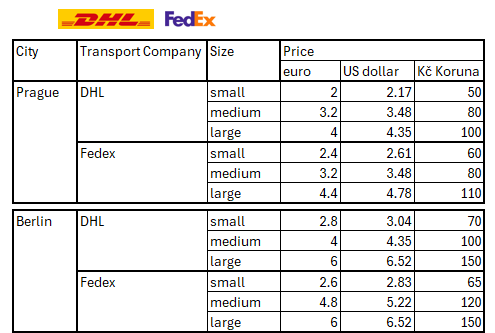
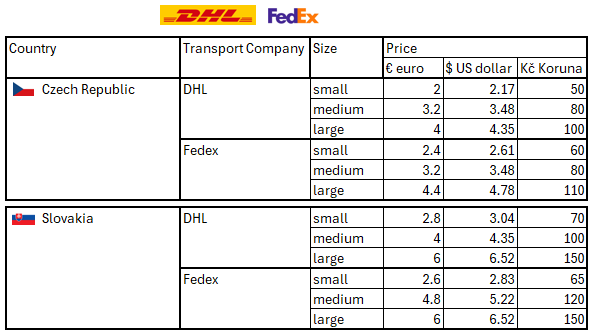
13-Mar-2025 - adjustments

Changed region(s): [[0.0, 0.0, 1.0, 1.0]]

diff --git a/Subpages/Function_3_creation of XML.py b/Subpages/Function_3_creation of XML.py
@@ -36,10 +36,16 @@ now = time.localtime()
 print(now)
 date_input = time.strftime("%Y-%m-%d", now)
 
+# Application Frontend:
+st.write("### Delivery details:")
+''
+
+st.write("Please provide details about your order...")
+''
 with st. expander("Buyer"):
     customer_input = st.text_input(
-        "Customer:",
-        help = "Write a customer name"
+        "Customer/Company name:",
+        help = "Write a customer name/company name"
         )
 
 with st. expander("Product"):
@@ -50,7 +56,7 @@ with st. expander("Product"):
         )
 
     category_selb = st.selectbox(
-        "Category" ,
+        "Category:" ,
         index = None,
         placeholder= "Select...",
         options=["PC","TV","Gaming","Mobile phones","Tablets","Major Appliances","Households"],
@@ -59,7 +65,7 @@ with st. expander("Product"):
 
 with st. expander("Price"):
     currency_selb = st.selectbox(
-        "Currency" ,
+        "Currency:" ,
         index = None,
         placeholder= "Select...",
         options=["euro","US dollar","Kč"],
@@ -67,7 +73,7 @@ with st. expander("Price"):
         )
     
     price = st.number_input(
-        "Price",
+        "Price:",
         min_value=0.00,
         step = 10.00,
         help = "You can either click on the +- icons or write the input using numbers. *The step is step +- 10.00 -> i case of diferent values in decimals wrrte it."
@@ -77,7 +83,7 @@ with st. expander("Price"):
 with st.expander("Extra purchase"):
 
     add_service_select = st.selectbox(
-        "Additional service" ,
+        "Additional service:" ,
         options=["No additional service","Insurance","Extended varanty"],
         help = "Select one of the options"
          )
@@ -91,15 +97,15 @@ with st.expander("Extra purchase"):
 with st.expander("Transportation"):
 
     city_selb = st.selectbox(
-        "Select city for delivery" ,
-        options=["Prague","Berlin"],
+        "Country:" ,
+        options=["Czech Republic","Slovakia"],
         index = None,
         placeholder="Select...",
         help = "Select one of the options - there is different price for service for each city"
          )
       
     transport_co_selb = st.selectbox(
-        "Transporting compeny" ,
+        "Transporting company:" ,
         options=["DHL","Fedex"],
         index = None,
         placeholder="Select...",
@@ -107,148 +113,153 @@ with st.expander("Transportation"):
          )
     
     size_selb = st.selectbox(
-        "Size of package" ,
+        "Size of package:" ,
         options=["small","medium","large"],
         index = None,
         placeholder="Select...",
         help = "Select one of the options - there is different price for each size"
         )
-    
+    ''
+    st.write("Pricing table:")
+    ''
     st.image("Pictures/Function_3/Price_list.png")
+
+''
+''
 
 price_str = str(price)
 
 # logika pro transport
 
 def calculation_transport(city_selb,size_selb,transport_co_selb, currency_selb):   
-    # Prague, DHL, small
-    if city_selb == 'Prague' and transport_co_selb == 'DHL' and size_selb == 'small' and currency_selb == 'euro':
+    # Czech Republic, DHL, small
+    if city_selb == 'Czech Republic' and transport_co_selb == 'DHL' and size_selb == 'small' and currency_selb == 'euro':
         return 2.00
     
-    if city_selb == 'Prague' and transport_co_selb == 'DHL' and size_selb == 'small' and currency_selb == 'US dollar':
+    if city_selb == 'Czech Republic' and transport_co_selb == 'DHL' and size_selb == 'small' and currency_selb == 'US dollar':
         return 2.17
     
-    if city_selb == 'Prague' and transport_co_selb == 'DHL' and size_selb == 'small' and currency_selb == 'Kč':
+    if city_selb == 'Czech Republic' and transport_co_selb == 'DHL' and size_selb == 'small' and currency_selb == 'Kč':
         return 50.00
 
-    # Prague, DHL, medium
-    if city_selb == 'Prague' and transport_co_selb == 'DHL' and size_selb == 'medium' and currency_selb == 'euro':
+    # Czech Republic, DHL, medium
+    if city_selb == 'Czech Republic' and transport_co_selb == 'DHL' and size_selb == 'medium' and currency_selb == 'euro':
         return 3.20
     
-    if city_selb == 'Prague' and transport_co_selb == 'DHL' and size_selb == 'medium' and currency_selb == 'US dollar':
+    if city_selb == 'Czech Republic' and transport_co_selb == 'DHL' and size_selb == 'medium' and currency_selb == 'US dollar':
         return 3.48
     
-    if city_selb == 'Prague' and transport_co_selb == 'DHL' and size_selb == 'medium' and currency_selb == 'Kč':
+    if city_selb == 'Czech Republic' and transport_co_selb == 'DHL' and size_selb == 'medium' and currency_selb == 'Kč':
         return 80.00
 
-    # Prague, DHL, large
-    if city_selb == 'Prague' and transport_co_selb == 'DHL' and size_selb == 'large' and currency_selb == 'euro':
+    # Czech Republic, DHL, large
+    if city_selb == 'Czech Republic' and transport_co_selb == 'DHL' and size_selb == 'large' and currency_selb == 'euro':
         return 4.00
     
-    if city_selb == 'Prague' and transport_co_selb == 'DHL' and size_selb == 'large' and currency_selb == 'US dollar':
+    if city_selb == 'Czech Republic' and transport_co_selb == 'DHL' and size_selb == 'large' and currency_selb == 'US dollar':
         return 4.35
     
-    if city_selb == 'Prague' and transport_co_selb == 'DHL' and size_selb == 'large' and currency_selb == 'Kč':
+    if city_selb == 'Czech Republic' and transport_co_selb == 'DHL' and size_selb == 'large' and currency_selb == 'Kč':
         return 100.00
     
-    # Prague, Fedex, small
-    if city_selb == 'Prague' and transport_co_selb == 'Fedex' and size_selb == 'small' and currency_selb == 'euro':
+    # Czech Republic, Fedex, small
+    if city_selb == 'Czech Republic' and transport_co_selb == 'Fedex' and size_selb == 'small' and currency_selb == 'euro':
         return 2.40
     
-    if city_selb == 'Prague' and transport_co_selb == 'Fedex' and size_selb == 'small' and currency_selb == 'US dollar':
+    if city_selb == 'Czech Republic' and transport_co_selb == 'Fedex' and size_selb == 'small' and currency_selb == 'US dollar':
         return 2.61
     
-    if city_selb == 'Prague' and transport_co_selb == 'Fedex' and size_selb == 'small' and currency_selb == 'Kč':
+    if city_selb == 'Czech Republic' and transport_co_selb == 'Fedex' and size_selb == 'small' and currency_selb == 'Kč':
         return 60.00
     
-    # Prague, Fedex, medium
-    if city_selb == 'Prague' and transport_co_selb == 'Fedex' and size_selb == 'medium' and currency_selb == 'euro':
+    # Czech Republic, Fedex, medium
+    if city_selb == 'Czech Republic' and transport_co_selb == 'Fedex' and size_selb == 'medium' and currency_selb == 'euro':
         return 3.20
     
-    if city_selb == 'Prague' and transport_co_selb == 'Fedex' and size_selb == 'medium' and currency_selb == 'US dollar':
+    if city_selb == 'Czech Republic' and transport_co_selb == 'Fedex' and size_selb == 'medium' and currency_selb == 'US dollar':
         return 3.48
     
-    if city_selb == 'Prague' and transport_co_selb == 'Fedex' and size_selb == 'medium' and currency_selb == 'Kč':
+    if city_selb == 'Czech Republic' and transport_co_selb == 'Fedex' and size_selb == 'medium' and currency_selb == 'Kč':
         return 80.00
     
-    # Prague, Fedex, large
-    if city_selb == 'Prague' and transport_co_selb == 'Fedex' and size_selb == 'large' and currency_selb == 'euro':
+    # Czech Republic, Fedex, large
+    if city_selb == 'Czech Republic' and transport_co_selb == 'Fedex' and size_selb == 'large' and currency_selb == 'euro':
         return 4.40
     
-    if city_selb == 'Prague' and transport_co_selb == 'Fedex' and size_selb == 'large' and currency_selb == 'US dollar':
+    if city_selb == 'Czech Republic' and transport_co_selb == 'Fedex' and size_selb == 'large' and currency_selb == 'US dollar':
         return 4.78
     
-    if city_selb == 'Prague' and transport_co_selb == 'Fedex' and size_selb == 'large' and currency_selb == 'Kč':
+    if city_selb == 'Czech Republic' and transport_co_selb == 'Fedex' and size_selb == 'large' and currency_selb == 'Kč':
         return 110.00
     
-    # Berlin, DHL, small
-    if city_selb == 'Berlin' and transport_co_selb == 'DHL' and size_selb == 'small' and currency_selb == 'euro':
+    # Slovakia, DHL, small
+    if city_selb == 'Slovakia' and transport_co_selb == 'DHL' and size_selb == 'small' and currency_selb == 'euro':
         return 2.80
     
-    if city_selb == 'Berlin' and transport_co_selb == 'DHL' and size_selb == 'small' and currency_selb == 'US dollar':
+    if city_selb == 'Slovakia' and transport_co_selb == 'DHL' and size_selb == 'small' and currency_selb == 'US dollar':
         return 3.04
     
-    if city_selb == 'Berlin' and transport_co_selb == 'DHL' and size_selb == 'small' and currency_selb == 'Kč':
+    if city_selb == 'Slovakia' and transport_co_selb == 'DHL' and size_selb == 'small' and currency_selb == 'Kč':
         return 70.00
     
-    # Berlin, DHL, medium
-    if city_selb == 'Berlin' and transport_co_selb == 'DHL' and size_selb == 'medium' and currency_selb == 'euro':
+    # Slovakia, DHL, medium
+    if city_selb == 'Slovakia' and transport_co_selb == 'DHL' and size_selb == 'medium' and currency_selb == 'euro':
         return 4.00
     
-    if city_selb == 'Berlin' and transport_co_selb == 'DHL' and size_selb == 'medium' and currency_selb == 'US dollar':
+    if city_selb == 'Slovakia' and transport_co_selb == 'DHL' and size_selb == 'medium' and currency_selb == 'US dollar':
         return 4.35
     
-    if city_selb == 'Berlin' and transport_co_selb == 'DHL' and size_selb == 'medium' and currency_selb == 'Kč':
+    if city_selb == 'Slovakia' and transport_co_selb == 'DHL' and size_selb == 'medium' and currency_selb == 'Kč':
         return 100.00
     
-    # Berlin, DHL, small
-    if city_selb == 'Berlin' and transport_co_selb == 'DHL' and size_selb == 'small' and currency_selb == 'euro':
+    # Slovakia, DHL, small
+    if city_selb == 'Slovakia' and transport_co_selb == 'DHL' and size_selb == 'small' and currency_selb == 'euro':
         return 2.80
     
-    if city_selb == 'Berlin' and transport_co_selb == 'DHL' and size_selb == 'small' and currency_selb == 'US dollar':
+    if city_selb == 'Slovakia' and transport_co_selb == 'DHL' and size_selb == 'small' and currency_selb == 'US dollar':
         return 3.04
     
-    if city_selb == 'Berlin' and transport_co_selb == 'DHL' and size_selb == 'small' and currency_selb == 'Kč':
+    if city_selb == 'Slovakia' and transport_co_selb == 'DHL' and size_selb == 'small' and currency_selb == 'Kč':
         return 70.00
     
-    # Berlin, DHL, large
-    if city_selb == 'Berlin' and transport_co_selb == 'DHL' and size_selb == 'large' and currency_selb == 'euro':
+    # Slovakia, DHL, large
+    if city_selb == 'Slovakia' and transport_co_selb == 'DHL' and size_selb == 'large' and currency_selb == 'euro':
         return 6.00
     
-    if city_selb == 'Berlin' and transport_co_selb == 'DHL' and size_selb == 'large' and currency_selb == 'US dollar':
+    if city_selb == 'Slovakia' and transport_co_selb == 'DHL' and size_selb == 'large' and currency_selb == 'US dollar':
         return 6.52
     
-    if city_selb == 'Berlin' and transport_co_selb == 'DHL' and size_selb == 'large' and currency_selb == 'Kč':
+    if city_selb == 'Slovakia' and transport_co_selb == 'DHL' and size_selb == 'large' and currency_selb == 'Kč':
         return 150.00
 
-    # Berlin, Fedex, small
-    if city_selb == 'Berlin' and transport_co_selb == 'Fedex' and size_selb == 'small' and currency_selb == 'euro':
+    # Slovakia, Fedex, small
+    if city_selb == 'Slovakia' and transport_co_selb == 'Fedex' and size_selb == 'small' and currency_selb == 'euro':
         return 2.60
     
-    if city_selb == 'Berlin' and transport_co_selb == 'Fedex' and size_selb == 'small' and currency_selb == 'US dollar':
+    if city_selb == 'Slovakia' and transport_co_selb == 'Fedex' and size_selb == 'small' and currency_selb == 'US dollar':
         return 2.83
     
-    if city_selb == 'Berlin' and transport_co_selb == 'Fedex' and size_selb == 'small' and currency_selb == 'Kč':
+    if city_selb == 'Slovakia' and transport_co_selb == 'Fedex' and size_selb == 'small' and currency_selb == 'Kč':
         return 65.00
     
-    # Berlin, Fedex, medium
-    if city_selb == 'Berlin' and transport_co_selb == 'Fedex' and size_selb == 'medium' and currency_selb == 'euro':
+    # Slovakia, Fedex, medium
+    if city_selb == 'Slovakia' and transport_co_selb == 'Fedex' and size_selb == 'medium' and currency_selb == 'euro':
         return 4.80
     
-    if city_selb == 'Berlin' and transport_co_selb == 'Fedex' and size_selb == 'medium' and currency_selb == 'US dollar':
+    if city_selb == 'Slovakia' and transport_co_selb == 'Fedex' and size_selb == 'medium' and currency_selb == 'US dollar':
         return 5.22
     
-    if city_selb == 'Berlin' and transport_co_selb == 'Fedex' and size_selb == 'medium' and currency_selb == 'Kč':
+    if city_selb == 'Slovakia' and transport_co_selb == 'Fedex' and size_selb == 'medium' and currency_selb == 'Kč':
         return 120.00
     
-    # Berlin, Fedex, large
-    if city_selb == 'Berlin' and transport_co_selb == 'Fedex' and size_selb == 'large' and currency_selb == 'euro':
+    # Slovakia, Fedex, large
+    if city_selb == 'Slovakia' and transport_co_selb == 'Fedex' and size_selb == 'large' and currency_selb == 'euro':
         return 6.00
     
-    if city_selb == 'Berlin' and transport_co_selb == 'Fedex' and size_selb == 'large' and currency_selb == 'US dollar':
+    if city_selb == 'Slovakia' and transport_co_selb == 'Fedex' and size_selb == 'large' and currency_selb == 'US dollar':
         return 6.52
     
-    if city_selb == 'Berlin' and transport_co_selb == 'Fedex' and size_selb == 'large' and currency_selb == 'Kč':
+    if city_selb == 'Slovakia' and transport_co_selb == 'Fedex' and size_selb == 'large' and currency_selb == 'Kč':
         return 150.00
 
 calc_transport_price = calculation_transport(city_selb,size_selb,transport_co_selb, currency_selb)
@@ -271,7 +282,7 @@ service_type_fn = fun_add_service_1(add_service_select)
 def fun_add_service_2(option, price):
     
     if option == 'No additional service':
-        return '0.00'
+        return 0.00
 
     elif option == 'Insurance':
         ins = price * 0.15
@@ -298,22 +309,22 @@ def fun_add_service_3(option):
 
 service_fn = fun_add_service_3(add_service_select)
 
-
-if customer_input == '' or product_name_inp == '' or category_selb == '' or currency_selb == '' or price == '' or add_service_select == '':
-    st.warning("One of the inputs is still not available")
+# Logic / notification guidence when fullfiled properly
+if customer_input == '' or product_name_inp == '' or category_selb == None or currency_selb == None or price == 0.00 or add_service_select == '' or city_selb == None or transport_co_selb == None or size_selb == None :
+    st.warning("One of the inputs is still not available - if Submit button is pushed the application might not work properly ")
 
 else:
     st.success("Fulfiled properly")
 
 # Submit button
-if st.button("submit"):
-    st.write("Jane ty jsi genius")
-
+if st.button("Submit"):
+    
     # Calculation of final price 
     # important to keep the calculation after SUBMIT button, if not TypeError: unsupported operand type(s) for +: 'float' and 'NoneType'
     final_price_fl = price + calc_transport_price + service_price_fn
     final_price_fl_str = str(final_price_fl)
     
+    st.write("#### Sumary of your order:")
 
     st.write(f" - Customer name: {customer_input}")
     ''
@@ -356,7 +367,7 @@ if st.button("submit"):
 
     transportation = ET.SubElement(xml_doc, 'transportation')
     transporter = ET.SubElement(transportation, 'transporter').text = transport_co_selb
-    to_city = ET.SubElement(transportation, 'to_city').text = city_selb
+    country = ET.SubElement(transportation, 'country').text = city_selb
     size = ET.SubElement(transportation, 'size').text = size_selb
     transport_price = ET.SubElement(transportation, 'transport_price').text = calc_transport_price_str
     prettify(xml_doc)
@@ -364,7 +375,8 @@ if st.button("submit"):
     tree = ET.ElementTree(xml_doc)
     # xml_declaration=Tru -> generuje XML prolog
     tree.write('Data/Function_3_do NOT delete.xml', encoding='UTF-8', xml_declaration=True)
- 
+
+st.write("------")
 
 file_name_fstring = f"{invoice_number_generated}.xml"
 
